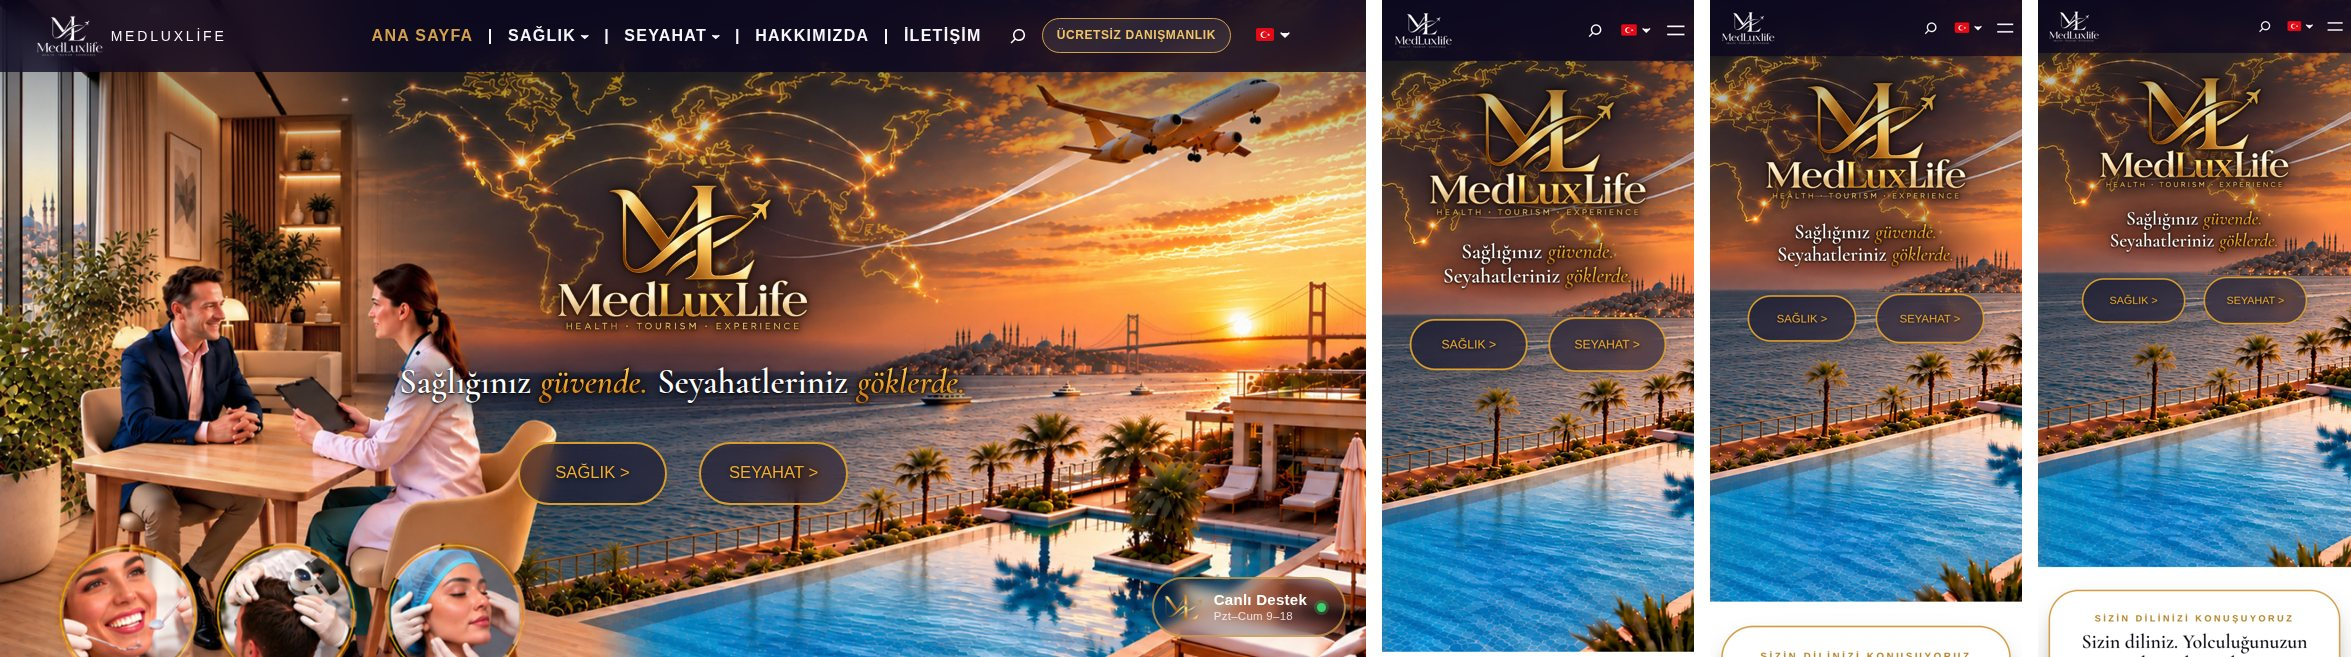
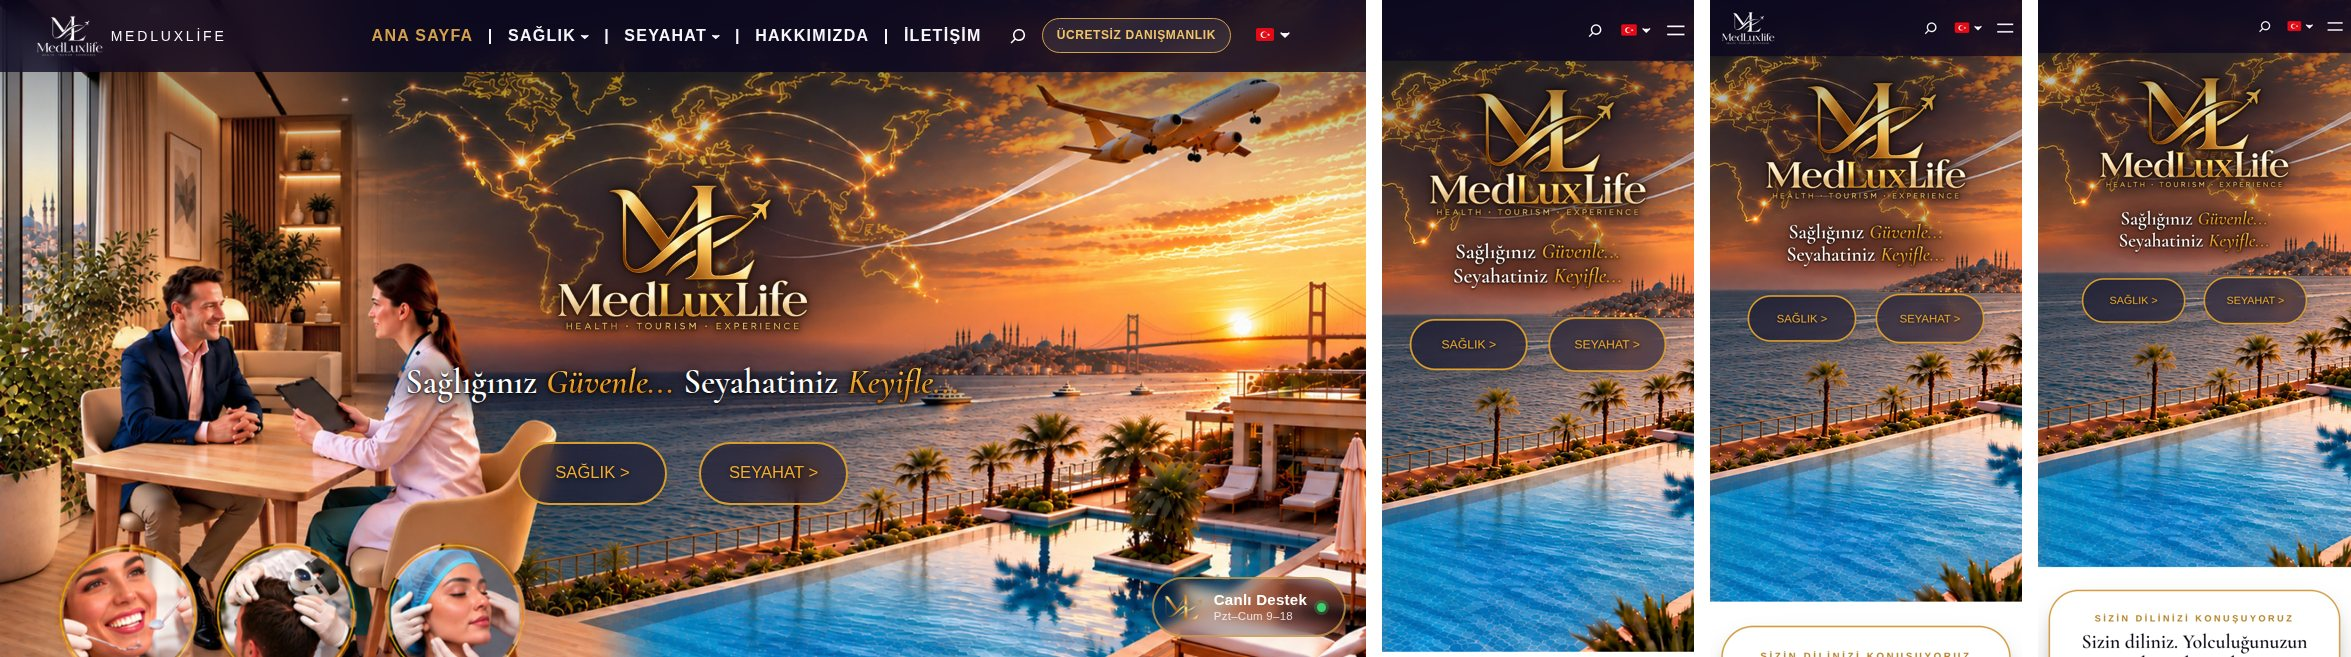
Turkish home slogan: Sağlığınız Güvenle... Seyahatiniz Keyifle... (Emrah)
Claude-Session: https://claude.ai/code/session_01EVvR33Af5MGSBck832Nn7m

diff --git a/PROJECT.md b/PROJECT.md
@@ -704,5 +704,7 @@ Access: WP REST via https://medluxlife-6j8sz55bpn.live-website.com/wp-json (prox
 
 - 2026-10-19 – Emrah (now working with me, writes Turkish → answer in Turkish): Turkish slogan → "Sağlığınız güvende. Seyahatleriniz göklerde." (plural, was "Seyahatiniz"). Checked laptop 1366 and phones 360/390/414: two lines on phones. Screenshot `deliverables/tr_hero_slogan.jpg`.
 
+- 2026-10-19 – Emrah: Turkish slogan → "Sağlığınız Güvenle... Seyahatiniz Keyifle..." (his capitals and three dots; pieces "Sağlığınız" / "Güvenle..." / "Seyahatiniz" / "Keyifle..."; replaces "güvende / Seyahatleriniz göklerde"). Checked laptop 1366 and phones 360/390/414: two lines on phones. Screenshot `deliverables/tr_hero_slogan.jpg`.
+
 ### KALICI KURAL (Anna, 2026-10-18): her yeni/ değişen metin otomatik olarak DE + TR çevrilir
 - Sitede eklenen veya değiştirilen her metin, aynı işin parçası olarak hemen Almanca ve Türkçeye çevrilir (onay beklemeden): sayfayı /de/ ve /tr/ altında bir kez aç (TranslatePress yeni metni sözlüğe ekler) → `python3 tools/trp_gap.py de_de` ve `tr_tr` (çevrilmemiş metinleri listeler) → yeni metinleri `content/translations/glossary.md` kurallarına göre çevir, `content/translations/de|tr/` altına kaydet → `python3 tools/trp.py push de_de|tr_tr <dosya>` → `trp_gap.py` ile tekrar kontrol. `[trp_language]` blokları (Ana Sayfa, Health, Contact, About) sayfanın içinde üç dilde düzenlenir. Yeni fotoğrafların alt metinleri: `python3 tools/alt_i18n.py collect` → `content/translations/de|tr/alts.json` içine çeviri → `alt_i18n.py push de_de` / `tr_tr` → `alt_i18n.py check de` / `tr`. Hukuki sayfalar (Almanca, bağlayıcı) çevrilmez.

diff --git a/deliverables/ozet_emrah_2026-10-19.md b/deliverables/ozet_emrah_2026-10-19.md
@@ -9,7 +9,7 @@
 
 ## Ana sayfa
 6. Almanca slogan: „Ihre Gesundheit, neu gedacht. Ihre Reise, neu erlebt.“ – butonlar „BEHANDLUNGEN >“ / „REISEN >“.
-7. Türkçe slogan: „Sağlığınız güvende. Seyahatleriniz göklerde.“ – butonlar „SAĞLIK >“ / „SEYAHAT >“.
+7. Türkçe slogan: „Sağlığınız Güvenle... Seyahatiniz Keyifle...“ – butonlar „SAĞLIK >“ / „SEYAHAT >“.
 8. İki buton her dilde aynı genişlikte (telefonda da).
 9. Almanca metinler daha uzun olduğu için Live Chat butonu dizüstünde 3. adımı kapatıyordu – Almanca metinler kısaltıldı, artık her ekran boyutunda serbest.
 
